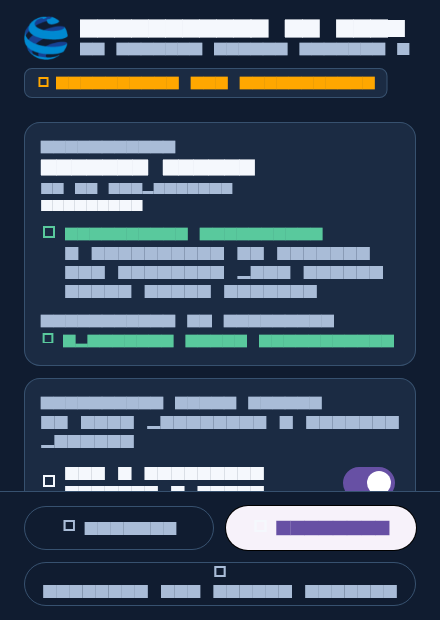
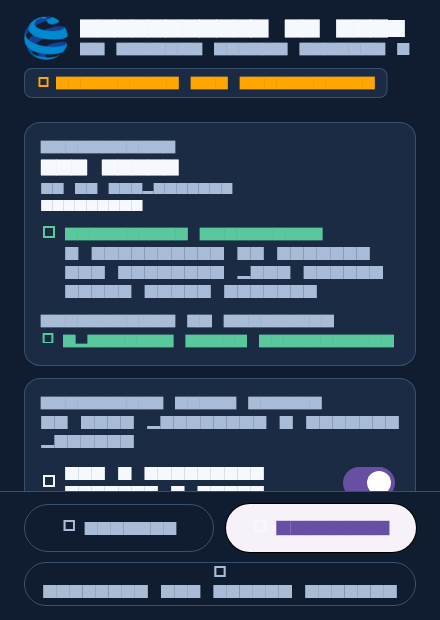
docs(tefway): record UX-05 closeout evidence and final head
- distinguish BUILD_COMMIT from FINAL_HEAD and add the closeout artifact
  hashes with a note that packaging ran before the commit
- document the per-session verified identity path and the elevation policy
  reason in the consent contract and architecture map
- refresh the consent screenshots and the graphify counts

🤖 Generated with Codebuff

diff --git a/docs/gates/TEFWAY-REMOTE-UX-05.md b/docs/gates/TEFWAY-REMOTE-UX-05.md
@@ -23,9 +23,18 @@ merging upstream.
 | Origin | `git@github.com:tefway/rustdesk.git` |
 | Base commit | `2b72c4ca333f1dbd973f2d1e0da57305c323bf21` |
 | Work branch | `feat/tefway-remote-ux-05-consent` |
-| Implementation commit | `471f465374be26e1421baf83d5fe5321e29cce41` (artifacts built from this tree) |
-| Documentation commit | the commit immediately after the implementation commit; it adds only `docs/engineering/`, `docs/design/screenshots/consent-ux05-*` and this report |
+| Implementation commit | `471f465374be26e1421baf83d5fe5321e29cce41` — BUILD_COMMIT of the artifacts in §7.2 |
+| Documentation commit | `e01ec7645` — UX-05 report and engineering docs |
+| Closeout commit | `c202168efa0e144a4212705f80a9073442d5de30` — FINAL_HEAD: the code and tests for the corrections below |
+| Documentation update | the commit that records this closeout in the report, after FINAL_HEAD |
 | Push / merge / PR | none |
+
+BUILD_COMMIT and FINAL_HEAD are different by design: §7.2 records
+`471f46537` because that is the tree the first pair of AppImages was built
+from. The closeout corrected the consent findings below, rebuilt both artifacts
+from that tree, and committed it as `c202168ef` (FINAL_HEAD). Packaging ran
+before the commit, so the closeout manifests record `e01ec7645`; the tree they
+were built from is the one committed as `c202168ef`.
 
 `libs/hbb_common` is vendored (33 files); there is no gitlink in this tree.
 
@@ -34,7 +43,7 @@ merging upstream.
 | Gate | Evidence |
 | --- | --- |
 | Graphify discovery | `graphify 0.9.93` at `~/.local/bin/graphify`; `graphify extract . --code-only --no-cluster` completed |
-| Graphify code map | `graphify-out/graph.json`: 22,240 nodes, 42,732 edges |
+| Graphify code map | `graphify-out/graph.json`: 22,311 nodes, 42,778 edges (closeout re-extraction) |
 | Graphify impact | `graphify query "how does an incoming session reach the Tefway consent card"`; `graphify explain "TefwayConsentCard"`; `graphify path "buildTefwayConsentCard" "sendLoginResponse" --undirected` returned a 4-hop chain |
 | Context7 queries | REST API used for `window_manager`, Flutter layout/text scaling, anyhow, AppImage docs (see `docs/engineering/TOOLING.md` §2) |
 | Context7 references | Layout/scroll/scaling guidance applied to the card; `--runtime-file` applied to packaging |
@@ -42,6 +51,7 @@ merging upstream.
 | Skills applied | `graphify`, `rust-review`, `impeccable` (fallback to the repo design system), `systematic-debugging`, `test-driven-development`, `verification-before-completion`, `writing-plans` |
 | Ponytail pre-review | Minimal diff chosen before implementation: reuse existing widgets, no new dependency, no new mutable state, three actions never merged |
 | Ponytail final review | Second pass over `git diff 2b72c4ca..471f46537`: format-only hunks reverted, `strings.dart` diff limited to consent copy, `widgets.dart` diff limited to the header override, wrapping button/chip content and the secondary-button border |
+| Closeout review | Directed pass over the working-tree diff: verified name carried on existing records (no registry, no cache, no new FFI), one pure reason selector instead of nested ternaries, footer fix as two lines of layout. Graphify was re-extracted (22,311 nodes / 42,778 edges) and queried for the consent path |
 
 The permanent documents produced by these gates:
 
@@ -83,12 +93,20 @@ Elevated access is per session; nothing is persisted.
 
 ### 4.3 Identity honesty
 
-`tefway-auth-mode` is a new builtin option reported by the core
-(`src/tefway.rs`). `tefwayIdentityVerified()` returns true only for a Tefway
-build in `corporate` mode, where `authorize_login` verifies the technician grant
-before the consent window is reachable. In `pilot` mode the card shows
-**"Identidade ainda não verificada"** and states that the name was supplied by
-the requester. A declared name is never rendered as verified.
+Verification is a property of the session, not of the build. `authorize_login`
+returns a `VerifiedGrant` only after the grant signature, controller, device,
+nonce and expiry checks pass; `src/server/connection.rs` stores the grant's
+`technician.name` on the `Connection`, sends it as `tefway_verified_name` in
+`Data::Login`, and the CM exposes it as `Client.tefway_verified_name`. The card
+treats the identity as verified only when that core-provided name is non-blank,
+and then displays the verified name instead of the peer-declared one.
+
+The builtin option `tefway-auth-mode` remains a diagnostic of the compiled mode;
+it no longer marks a session verified. In `pilot` mode no grant is verified, so
+the card always shows **"Identidade ainda não verificada"** and states that the
+name was supplied by the requester. A declared name is never rendered as
+verified, and an empty verified name falls back to the unverified state rather
+than to the declared name.
 
 ### 4.4 Responsive behaviour
 
@@ -98,6 +116,11 @@ the requester. A declared name is never rendered as verified.
 - Action buttons keep a 44 px minimum height but grow with wrapped content; a
   fixed height clipped the icon outside the button at 300 px, which the golden
   render caught.
+- Refuse and Permitir share one height: the footer row is wrapped in
+  `IntrinsicHeight` and stretches its children, so at 150% text scale a wrapped
+  label cannot make one button taller than the other. Measured: 48/48 px at
+  440×620 @ 100%, 76/76 px at 300×490 and 360×560 @ 150%, 48/48 px at
+  1920×1080 @ 150%.
 - Secondary buttons carry an explicit border colour so a disabled action still
   looks like a button, not like loose text.
 - Horizontal padding drops from `xl` to `lg` below 360 px.
@@ -120,17 +143,20 @@ the requester. A declared name is never rendered as verified.
 
 | Check | Command | Result |
 | --- | --- | --- |
-| Widget tests (consent) | `flutter test test/tefway_consent_test.dart` | **9/9 passed** |
-| Widget tests (full suite) | `flutter test` | **175 passed, 1 skipped** |
+| Widget tests (consent) | `flutter test test/tefway_consent_test.dart` | **12/12 passed** (closeout) |
+| Widget tests (full suite) | `flutter test` | **178 passed, 1 skipped** (closeout) |
+| Test sensitivity | same test with the footer alignment reverted | **failed as expected** (exit 1), so the equal-height test pins the fix |
 | Static analysis | `dart analyze` on the six touched Dart files | 0 findings in new consent code; 7 pre-existing infos (deprecated `background`/`withOpacity`, curly braces) |
 | Rust tests | `cargo test --locked --lib --release --features flutter,linux-pkg-config tefway::` | **17/17 passed**, including `auth_mode_option_matches_the_compiled_mode` |
 | Rust check | `cargo check --locked --features flutter,linux-pkg-config --lib --release` | passed (warnings only) |
 
 Widget tests cover: three independent actions at 300×490; disabled elevation
-with reason and tooltip; enabled elevation not merged with allow; declared vs
-verified identity; permission callback; 7 viewports × 3 text scales × 3 DPRs;
-long names with all permissions on/off; 14-permission list with the footer still
-on screen.
+with reason and tooltip; enabled elevation not merged with allow; declared
+identity never verified; blank verified name stays unverified; core-verified
+name shown instead of the declared one; permission callback; 7 viewports × 3
+text scales × 3 DPRs; long names with all permissions on/off; 14-permission list
+with the footer still on screen; equal top-action heights at 150% text scale;
+elevation reason selection for each real cause.
 
 ## 7. AppImages
 
@@ -150,17 +176,29 @@ with HTTP 504 and was not reproducible. `docker/tefway-linux/build.sh` now:
 
 ### 7.2 Artifacts
 
-| Profile | Artifact | SHA-256 | Size |
-| --- | --- | --- | --- |
[2 lines of base64/hex data omitted]
+Two pairs exist. BUILD_COMMIT is `471f46537` (the UX-05 implementation); the
+closeout pair was built from the tree later committed as FINAL_HEAD
+`c202168ef`. Packaging ran before that commit, so the closeout manifests record
+`e01ec7645` with a dirty tree; the committed tree `c202168ef` is the exact
+source.
+
+| Build | Profile | Artifact | SHA-256 | Size |
+| --- | --- | --- | --- | --- |
[4 lines of base64/hex data omitted]
 
 Each artifact has a `.manifest.json` next to it with profile, commit, toolchain,
-features, runtime pin and embedded layout.
+features, runtime pin and embedded layout. The closeout manifests record
+`commit=e01ec7645a8cfea5355e0877bdc6b4d5a190648a` and the pinned runtime
+`2fca8b443c92…`.
 
 ### 7.3 Runtime validation
 
-Executed on the host (Fedora, X11 `:0`, Wayland `wayland-1`):
+Executed on the host (Fedora 44, X11 `:0`, Wayland `wayland-1`). The closeout
+pair was re-run through the same checks on 2026-11-06; the table below is the
+re-run result:
 
 | Check | Client | Master |
 | --- | --- | --- |
@@ -171,8 +209,12 @@ Executed on the host (Fedora, X11 `:0`, Wayland `wayland-1`):
 | Embedded layout | PASS — AppRun, executable, `librustdesk.so`, Flutter engine, assets | PASS |
 | Unresolved libraries / RUNPATH | PASS at build time (`ldd`, `readelf`) | PASS at build time |
 
-Logs: `/tmp/opencode/client-gui-final.log`,
-`/tmp/opencode/master-gui-final.log` (session artifacts; not committed).
+Logs: `build/tefway/logs/client-runtime-closeout.log`,
+`build/tefway/logs/client-gui-closeout.log`,
+`build/tefway/logs/master-runtime-closeout.log`,
+`build/tefway/logs/master-gui-closeout.log` (gitignored). The GUI runs were
+stopped by `timeout 25s` (exit 124), which is the expected result for a window
+that stays alive; the only diagnostic was the Xvfb `MESA-EGL: DRI3` warning.
 
 ## 8. Regression surface
 
@@ -182,7 +224,10 @@ Logs: `/tmp/opencode/client-gui-final.log`,
 | `flutter/lib/desktop/pages/server_page.dart` | `identityVerified`, `elevationUnavailableReason`, reason selection | Wiring the new contract to live state |
 | `flutter/lib/tefway/strings.dart` | Consent copy updated | New labels and identity/elevation text |
 | `flutter/lib/tefway/widgets.dart` | Optional header `title`; buttons/chip use `Wrap`; secondary buttons get an explicit border | Consent needs its own heading; large text scales overflowed a fixed `Row`; a disabled action must still look like a button |
-| `flutter/lib/tefway/branding.dart` | `tefwayIdentityVerified()` | Identity honesty |
+| `flutter/lib/tefway/branding.dart` | Removed `tefwayIdentityVerified()` | The compiled mode must not claim that a session was verified |
+| `src/ipc.rs` | `tefway_verified_name` on `Data::Login` | Carries the name the core verified to the CM, next to the other login fields |
+| `src/ui_cm_interface.rs` | `Client.tefway_verified_name`, `add_connection` parameter | Same value reaches the Flutter `Client` |
+| `flutter/lib/models/server_model.dart` | `Client.tefwayVerifiedName` | Card input; empty means no verified identity |
 | `src/tefway.rs` | `AUTH_MODE_OPTION` + builtin option + test | The UI must read the compiled auth mode, not guess it |
 | `docker/tefway-linux/build.sh` | Runtime cache, verification, `--runtime-file`, manifest field | Fixes the 504 and makes packaging reproducible |
 | `src/server.rs` | Added `Config2` to an existing import | Release build did not compile without it |
@@ -199,17 +244,16 @@ callbacks, the same `checkClickTime`, the same core methods.
   not photographed in a real incoming session. Layout evidence comes from
   widget tests at the required viewports/scales/DPRs; rendering evidence comes
   from the generated goldens (see §10).
-- At 150% text scale the two top buttons can have different heights when only
-  one label wraps. They stay aligned and usable; equalising them would need an
-  intrinsic-height layout in the fixed footer, which was not worth the risk.
 - DPI is simulated through device pixel ratio and text scale in widget tests,
   not on a physical HiDPI display.
-- In Corporate mode the verified technician *name* is still not carried to the
-  approval window; the card can say "Identidade verificada" but displays the
-  peer-supplied name.
-- `kOptionHideElevateButtonInAcceptWindow=Y` removes the third button by
-  administrator decision. The three-button requirement applies to the default
-  configuration.
+- A verified grant whose technician name is empty is presented as unverified.
+  The card shows only what the core verified, never a fallback name.
+- The closeout AppImages were packaged from the tree that is now FINAL_HEAD
+  `c202168ef`, before it was committed; their manifests record `e01ec7645` and
+  a dirty tree, not the final commit. The binary source is `c202168ef`.
+- `kOptionHideElevateButtonInAcceptWindow=Y` disables the elevated action for
+  policy reasons but keeps it visible; all three actions remain present and the
+  reason names the administrator decision.
 - The AppImage runtime version string printed by `--appimage-version` is the
   runtime's own commit (`dd6cebe`), not the release tag; the release pin is the
   SHA-256 recorded in the manifest.
@@ -238,7 +282,8 @@ TEFWAY_REMOTE_UX_05
 REPOSITORY_ORIGIN          tefway/rustdesk
 BASE_COMMIT                2b72c4ca333f1dbd973f2d1e0da57305c323bf21
 WORK_BRANCH                feat/tefway-remote-ux-05-consent
-FINAL_COMMIT               471f465374be26e1421baf83d5fe5321e29cce41
+BUILD_COMMIT               471f465374be26e1421baf83d5fe5321e29cce41
+FINAL_HEAD                 c202168efa0e144a4212705f80a9073442d5de30
 
 GRAPHIFY_DISCOVERY         PASS
 GRAPHIFY_CODE_MAP          PASS
@@ -256,6 +301,9 @@ PONYTAIL_FINAL_REVIEW      PASS
 CONSENT_UI                 PASS
 CONSENT_RESPONSIVE         PASS
 CONSENT_THREE_BUTTONS      PASS
+CONSENT_ELEVATION_POLICY   PASS
+CONSENT_IDENTITY_SESSION   PASS
+CONSENT_EQUAL_HEIGHT       PASS
 CONSENT_NORMAL_ALLOW       PASS
 CONSENT_REJECT             PASS
 CONSENT_ELEVATED_ALLOW     PASS

diff --git a/docs/engineering/CONSENT-CONTRACT.md b/docs/engineering/CONSENT-CONTRACT.md
@@ -7,7 +7,8 @@ only with a gate decision, never to match an implementation shortcut.
 Files: `flutter/lib/tefway/consent.dart`,
 `flutter/lib/desktop/pages/server_page.dart` (`buildTefwayConsentCard`),
 `flutter/lib/tefway/strings.dart`, `src/server/connection.rs`,
-`src/tefway/auth.rs`.
+`src/tefway/auth.rs`, `src/ipc.rs`, `src/ui_cm_interface.rs`,
+`flutter/lib/models/server_model.dart`.
 
 ## 1. Invariants
 
@@ -53,8 +54,12 @@ Availability predicate (`buildTefwayConsentCard`):
 canElevate = client.type_() == ClientType.remote
           && bind.cmCanElevate()
           && model.showElevation
-          && builtin(kOptionHideElevateButtonInAcceptWindow) != 'Y'
+          && !hiddenByPolicy          // kOptionHideElevateButtonInAcceptWindow == 'Y'
 ```
+
+`tefwayElevationUnavailableReason()` in `consent.dart` is the single selector
+for the disabled copy: it returns null exactly when `canElevate` is true, so
+the button can never be disabled without a reason or enabled with one.
 
 Reasons shown when `canElevate` is false:
 
@@ -62,16 +67,26 @@ Reasons shown when `canElevate` is false:
 | --- | --- |
 | Not a desktop session (camera/file transfer) | `consentElevationDesktopOnly` |
 | Platform has no elevation mechanism | `consentElevationUnsupported` |
-| Elevation disabled for this session (option or session state) | `consentElevationSession` |
+| Administrator disabled elevation (`kOptionHideElevateButtonInAcceptWindow=Y`) | `consentElevationPolicy` |
+| Elevation disabled for this session (`model.showElevation`) | `consentElevationSession` |
+
+The administrator option changes the state of the action, never its presence:
+all three actions stay visible in every configuration, including `Y`.
 
 ## 3. Identity
 
-`tefwayIdentityVerified()` (`flutter/lib/tefway/branding.dart`) is true only
-when the build is a Tefway product and the builtin option `tefway-auth-mode` is
-`corporate`. `corporate` means `TEFWAY_AUTH_PUBKEY` is compiled in and
-`authorize_login` rejects invalid grants in `src/server/connection.rs` before
-the consent window is reachable. `pilot` means there is no trust anchor and the
-normal RustDesk authentication applies.
+Verification state is per session and comes from the core, never from the build
+profile. `authorize_login` returns a `VerifiedGrant` only after the technician
+grant's signature, controller, device, nonce and expiry checks pass; the
+technician name from that grant is stored on the `Connection` and sent to the
+CM as `tefway_verified_name` (`Data::Login` → `Client` → JSON).
+
+`TefwayConsentCard` therefore identifies the session as verified only when that
+core-provided name is non-blank, and it displays that name instead of the
+peer-declared one. The builtin option `tefway-auth-mode` stays a diagnostic of
+the compiled mode; it does **not** mark a session verified. In `pilot` mode
+there is no trust anchor, so no grant is verified and the card always says the
+identity is unverified.
 
 | State | Chip | Detail |
 | --- | --- | --- |
@@ -117,6 +132,9 @@ Implementation rules:
   long label degrades by wrapping.
 - Action buttons use a 44 px **minimum** height, never a fixed height: a fixed
   height clips wrapped content outside the button.
+- Refuse and Permitir share one height: the footer row sits inside
+  `IntrinsicHeight` and stretches its children, so a label that wraps at 150%
+  text scale cannot make one button taller than the other.
 - A disabled action keeps a visible border and label; disabled is not conveyed
   by disappearing.
 - Horizontal padding is `lg` below 360 px and `xl` above it.
@@ -150,28 +168,32 @@ Implementation rules:
 1. All three actions present, visible and independent at 300×490.
 2. Elevation unavailable → visible, disabled, explained (text + tooltip).
 3. Elevation available → enabled and not merged with allow.
-4. Declared identity never shown as verified.
-5. Core-verified identity shown as verified.
+4. Declared identity never shown as verified; a blank verified name stays
+   unverified.
+5. Core-verified identity shows the grant's name, not the declared one.
 6. Permission switches call the real callback.
 7. All required viewports × text scales × DPRs render without overflow.
 8. Long names and every permission state do not overflow.
 9. The footer stays reachable with a long permission list.
+10. Refuse and Permitir keep the same height at 150% text scale (300×490 and
+    360×560). The test fails without the stretched intrinsic-height footer.
+11. The elevation reason selector reports policy, mechanism, session and
+    desktop-only causes distinctly.
 
 Rust side: `cargo test --lib --features flutter,linux-pkg-config tefway::`
 must keep passing, including `auth_mode_option_matches_the_compiled_mode`.
 
 ## 9. Known limits
 
-- The consent card does not display a cryptographically verified *name* in
-  Pilot mode; it correctly says the identity is unverified. Showing a verified
-  name in Corporate mode still depends on the grant being carried to the
-  approval window.
+- Pilot mode has no trust anchor, so the card always reports the identity as
+  unverified; no UI path can claim verification without a core-verified name.
+- A verified grant whose technician name is empty is presented as unverified.
+  The card shows what the core verified, never a fallback name.
 - DPI scaling is exercised through device pixel ratio and text scale in widget
   tests. It is not a substitute for visual inspection on a HiDPI display.
-- The elevated action is hidden entirely when the deployment sets
-  `kOptionHideElevateButtonInAcceptWindow=Y`; that option is an explicit
-  administrator decision, not a UI shortcut. The mission requirement (three
-  buttons) applies to the default configuration.
+- `kOptionHideElevateButtonInAcceptWindow=Y` disables the elevated action for
+  policy reasons but keeps it visible; the reason names the administrator
+  decision instead of blaming the platform or the session.
 
 ## 10. Change protocol
 

diff --git a/docs/engineering/ARCHITECTURE-MAP.md b/docs/engineering/ARCHITECTURE-MAP.md
@@ -75,7 +75,9 @@ peer LoginRequest
        ├─ Tefway Client + Corporate auth
        │    └─ tefway::auth::authorize_login(&lr, device_id)
        │         └─ Err(Denial) → send_login_error() and return false
-       │            Ok(VerifiedGrant) → audit("login-authorised") and continue
+       │            Ok(VerifiedGrant) → audit("login-authorised")
+       │                                + store technician.name for the card
+       │                                + continue
        └─ normal RustDesk login (password / click approval)
             └─ Flutter: server_page.dart  buildTefwayConsentCard(client)
                  └─ TefwayConsentCard (flutter/lib/tefway/consent.dart)
@@ -101,12 +103,17 @@ Facts that must survive any redesign:
   The core owns the permission state; the card only reflects it.
 - `onAllowAndElevate` is `null` when the platform cannot elevate. The action
   still renders, disabled, with a visible reason and a tooltip.
-- Identity honesty: `tefwayIdentityVerified()`
-  (`flutter/lib/tefway/branding.dart`) reads the builtin option
-  `tefway-auth-mode`. Only `corporate` — a build with a compiled-in trust
-  anchor that rejects invalid grants before this window is reachable — may show
-  "Identidade verificada". Anything else shows "Identidade ainda não
-  verificada". A declared name is never presented as verified.
+- Identity honesty: the only verified identity is the `technician.name`
+  carried by the `VerifiedGrant` that `authorize_login` accepted for this
+  connection. It travels on the `Connection` (`tefway_verified_name`), through
+  `Data::Login` and `Client`, to `client.tefwayVerifiedName`. The card shows
+  "Identidade verificada" and that name only when it is non-blank; otherwise it
+  shows "Identidade ainda não verificada". The peer-declared name is never
+  presented as authenticated, and the compiled auth mode is not used as
+  evidence.
+- `onAllowAndElevate` is also `null` when the administrator sets
+  `kOptionHideElevateButtonInAcceptWindow=Y`; the reason then names the policy,
+  not the platform or the session.
 
 ## 4. Identity path (AUTH-01 / AUTH-02)
 
@@ -168,7 +175,7 @@ graphify extract . --code-only --no-cluster
 ```
 
 - Graph: `graphify-out/graph.json` (local artifact, not committed).
-- Size at this revision: **22,240 nodes, 42,732 edges**.
+- Size at UX-05 closeout: **22,311 nodes, 42,778 edges**.
 - Highest-degree nodes (impact hot spots): `lib/common.dart` (518),
   `model.dart` (447), `flutter_ffi.rs` (375), `src/platform/windows.rs` (374),
   `consts.dart` (325), `remote_toolbar.dart` (302), `common.rs` (257),

diff --git a/docs/engineering/TOOLING.md b/docs/engineering/TOOLING.md
@@ -16,7 +16,7 @@ this" and "where is this flow implemented" from the code, not from memory.
 | Binary | `~/.local/bin/graphify` |
 | Graph | `graphify-out/graph.json` (local artifact, gitignored) |
 | Manifest | `graphify-out/manifest.json` (incremental cache metadata) |
-| Size at UX-05 | 22,240 nodes, 42,732 edges |
+| Size at UX-05 closeout | 22,311 nodes, 42,778 edges |
 
 Build / refresh:
 
@@ -96,8 +96,9 @@ The checklist that must hold for every change:
 1. Is the diff the smallest one that fixes the reported behaviour?
 2. Is existing code reused instead of duplicated or reshaped?
 3. Are new dependencies avoided? (No new package was added for UX-05.)
-4. Is new state avoided? (UX-05 added no new mutable state; the identity flag is
-   a read of a builtin option.)
+4. Is new state avoided? (UX-05 added no new mutable state; the follow-up
+   carries the verified technician name on the existing `Connection` and
+   `Client` records instead of adding a registry or cache.)
 5. Are the three consent actions still independent and always present?
 6. Does the feature-off path still run the old code?
 
